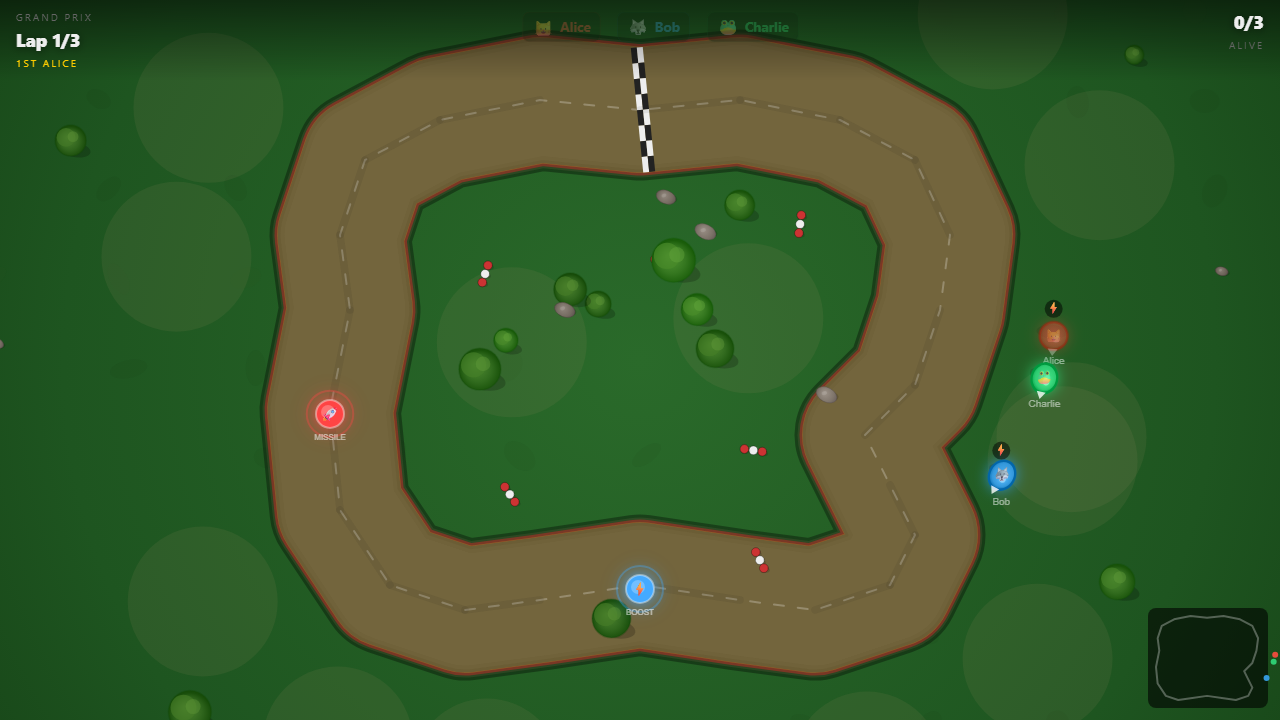
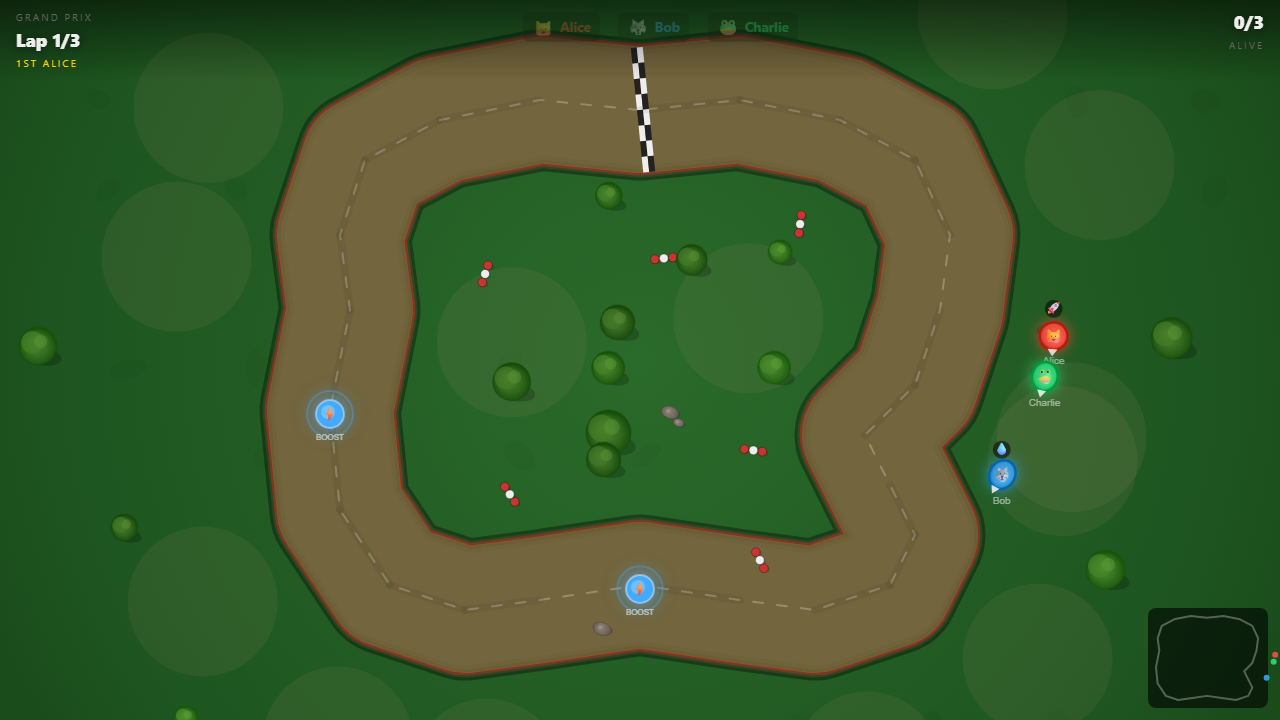
feat: Hill King mechanics overhaul — from passive to active
Core problem: players were PASSENGERS (auto-orbit + long cooldowns = waiting).

Movement:
- Swipe = direct movement (orbit left/right, toward/away center)
- ORBIT_SPEED 0.028 → 0.022 (slower auto, player controls more)
- Controller: swipe sends 'move' not 'dashDir' (move = positioning, tap = attack)

Combat:
- PUSH_FORCE 0.65 → 1.0 (one good hit = real threat)
- DASH_CD 16 → 10 (0.5s cooldown, was 0.8s — more action)
- dashT 6 → 12 (0.6s dash duration — reliable hits + shieldBlock possible)
- HIT_DIST stays 1.4 (already increased)

Arena:
- INIT_R 5 → 4 (smaller start — more interaction from second 1)
- MIN_R 2 → 1.8 (shrinks smaller)
- SHRINK_INT 130 → 80 (every 4s, was 6.5s — constant pressure)
- SUDDEN_DEATH_TICK 900 → 700 (35s, was 45s)
- GRAVITY_PULL 0.003 → 0.004 (slightly stronger center pull)

Power-ups:
- POWERUP_SPAWN_INT 200 → 120 (every 6s, was 10s)
- First spawn at tick 60 (3s, was 10s)
- Collection radius 0.8 → 1.2

diff --git a/server/hillGame.js b/server/hillGame.js
@@ -5,17 +5,17 @@
 const { Physics2D } = require('../engine/Physics2D');
 
 const TICK_MS = 50;
-const ORBIT_SPEED = 0.028;
-const PUSH_FORCE = 0.65;
+const ORBIT_SPEED = 0.022;   // slower auto-orbit (player controls speed now)
+const PUSH_FORCE = 1.0;      // one good hit = real threat (was 0.65)
 const FRICTION = 0.87;
-const HIT_DIST = 1.4; // increased for more reliable collisions + shieldBlock
-const INIT_R = 5;
-const MIN_R = 2;
-const SHRINK_INT = 130;
-const SUDDEN_DEATH_TICK = 900; // 45s — accelerated shrinking, no teetering
-const SHRINK_AMT = 0.4;
-const DASH_CD = 16;
-const GRAVITY_PULL = 0.003;
+const HIT_DIST = 1.4;
+const INIT_R = 4;            // smaller arena from start (was 5) — more action
+const MIN_R = 1.8;           // can shrink smaller
+const SHRINK_INT = 80;       // shrink every 4s (was 6.5s) — more pressure
+const SUDDEN_DEATH_TICK = 700; // 35s (was 45s)
+const SHRINK_AMT = 0.35;
+const DASH_CD = 10;          // 0.5s cooldown (was 0.8s) — more active play
+const GRAVITY_PULL = 0.004;  // slightly stronger pull to center
 
 // King zone
 const KING_ZONE_R = 1.5;
@@ -39,7 +39,7 @@ const GPOUND_RADIUS = 2.0;
 const GPOUND_FORCE = 0.45;
 
 // Power-ups
-const POWERUP_SPAWN_INT = 200;
+const POWERUP_SPAWN_INT = 120; // every 6s (was 10s)
 const POWERUP_TYPES = ['anchor', 'superDash', 'gravityBomb'];
 const ANCHOR_DURATION = 60; // 3s
 const SUPER_DASH_MULT = 2.0;
@@ -68,7 +68,7 @@ class HillGame {
     this.winner = null;
     this._iv = null;
     this.powerups = [];
-    this.nextPowerup = POWERUP_SPAWN_INT;
+    this.nextPowerup = 60; // first powerup at 3s (was 10s)
     // Hazards
     this.cracks = [];
     this.bumperAngle = 0;
@@ -88,7 +88,7 @@ class HillGame {
     this.platR = INIT_R;
     this.winner = null;
     this.powerups = [];
-    this.nextPowerup = POWERUP_SPAWN_INT;
+    this.nextPowerup = 60; // first powerup at 3s (was 10s)
     this.cracks = [];
     this.bumperAngle = 0;
     this.bumperActive = false;
@@ -197,7 +197,7 @@ class HillGame {
         const pz = Math.sin(g.angle) * g.radius;
         const pux = Math.cos(pu.angle) * pu.radius;
         const puz = Math.sin(pu.angle) * pu.radius;
-        if (Physics2D.pointInCircle(px, pz, pux, puz, 0.8)) {
+        if (Physics2D.pointInCircle(px, pz, pux, puz, 1.2)) { // bigger pickup radius
           this._collectPowerup(p, pu, i);
         }
       }
@@ -412,7 +412,16 @@ class HillGame {
     if (!p || !p.gameData || !p.gameData.alive) return;
     const g = p.gameData;
 
-    if (g.teetering) return; // no actions while teetering
+    if (g.teetering) return;
+
+    // DIRECT MOVEMENT — swipe controls orbit and radius
+    if (action === 'move' && msg && msg.direction) {
+      if (msg.direction === 'left') g.angle -= 0.15;       // orbit left
+      else if (msg.direction === 'right') g.angle += 0.15;  // orbit right
+      else if (msg.direction === 'up') g.radius = Math.max(0.5, g.radius - 0.3); // toward center
+      else if (msg.direction === 'down') g.radius = Math.min(this.platR, g.radius + 0.3); // away from center
+      return;
+    }
 
     if (action === 'shield') {
       g.shielding = true;
@@ -424,9 +433,8 @@ class HillGame {
       return;
     }
 
-    // Ground pound — tap during dash
+    // Ground pound — swipe down OR tap during dash
     if (action === 'groundPound' || (action === 'dash' && g.dashing)) {
-      if (!g.dashing) return;
       // Slam — push all nearby players outward
       const px = Math.cos(g.angle) * g.radius;
       const pz = Math.sin(g.angle) * g.radius;
@@ -476,7 +484,7 @@ class HillGame {
       }
 
       g.dashing = true;
-      g.dashT = 6;
+      g.dashT = 12; // 0.6s dash duration (was 0.3s) — more reliable hits
       g.cd = DASH_CD;
       g.shielding = false;
     }

diff --git a/client-controller/main.js b/client-controller/main.js
@@ -16,7 +16,7 @@ let gameId = 'escapeFox', tapped = false;
 const GAME_NAMES = { escapeFox: 'ESCAPE THE FOX', hillKing: 'KING OF THE HILL', meteor: 'METEOR SHOWER' };
 const GESTURE_HINTS = {
   escapeFox: 'TAP = jump · SWIPE ←→ = change lane · SWIPE ↓ = slide under',
-  hillKing:  'TAP = dash attack · HOLD = shield · SWIPE = directional dash',
+  hillKing:  'SWIPE = move · TAP = dash attack · HOLD = shield',
   meteor:    'TAP = dodge to safety · SWIPE = move · HOLD = sprint',
   race:      'SWIPE ←→ = steer · TAP = boost or use item · HOLD = drift',
 };
@@ -171,8 +171,9 @@ function onSwipe(dir) {
       Sound.play('slide');
     }
   } else if (gameId === 'hillKing') {
-    send('dashDir', dir);
-    Sound.play('dash');
+    // Swipe = direct movement (orbit + radius control)
+    send('move', dir);
+    Sound.play('dodge');
   } else if (gameId === 'meteor') {
     send('move', dir);
     Sound.play('dodge');
